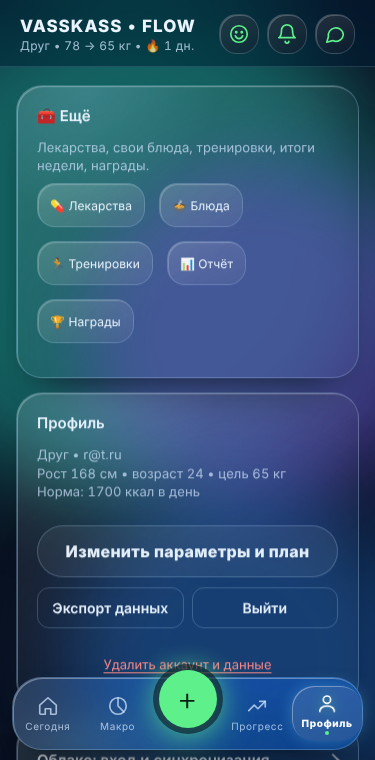
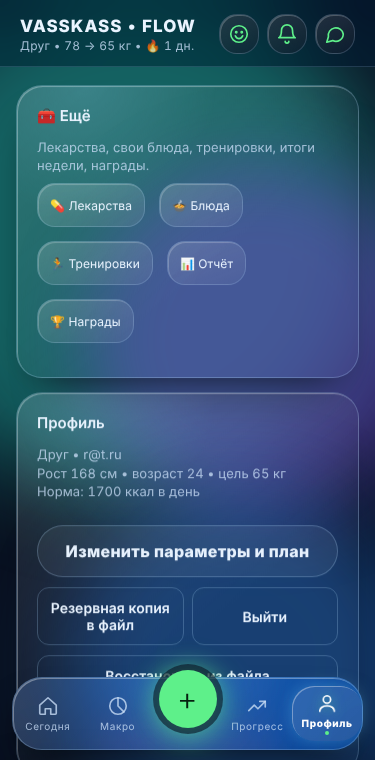
v100, v92b, v103: меню на неделю, резервная копия в файл, защита облака при смене пользователя, автотесты
- v100 меню на неделю и список покупок (72 блюда, ±10% к норме, учёт беременности).
- v92 облачная сессия привязана к почте и отключается при выходе; v92b резервная копия с фото и восстановление.
- v99: регистрация гостя на почту с облачным аккаунтом больше не падает.
- v103: поле веса принимает запятую, стартовый таймер не сбрасывает анкету.
- tests/smoke.js — 14 сценариев, все проходят; sw VERSION v103-1.

Claude-Session: https://claude.ai/code/session_01HyKBZBDxcxmrndMoK7TebW

diff --git a/js/v99-guest.js b/js/v99-guest.js
@@ -48,7 +48,7 @@
  window.guestStart=guestStart;
 
  /* ---------- облако: для гостя ничего не отправляем и не тянем ---------- */
- const noCloud=()=>{if(guest()){try{CL=null}catch(e){}return true}return false};
+ const noCloud=()=>{if(guest()&&!(typeof window.__v92auth==='function'&&window.__v92auth())){try{CL=null}catch(e){}return true}return false};
  const wrapA=name=>{try{const f=window[name];if(typeof f!=='function')return;const w=async function(){if(noCloud())return null;return f.apply(this,arguments)};window[name]=w}catch(e){}};
  ['clPush','clPull','clRefresh46','clUse','clAuth'].forEach(wrapA);
  try{const _rc=renderCloud;renderCloud=function(){if(guest()){const e=$g('#cloudBox');if(e)e.innerHTML='<p class="m">Облако работает с аккаунтом. Создайте его, и записи с этого телефона сохранятся, а открыть их можно будет на любом устройстве.</p><button class="btn" onclick="guestSave()">Создать аккаунт</button>';return}return _rc.apply(this,arguments)}}catch(e){}

diff --git a/js/v103-fixes.js b/js/v103-fixes.js
@@ -28,5 +28,10 @@ function fixForecast(){try{document.querySelectorAll('#t-weight p, #t-weight div
 document.head.insertAdjacentHTML('beforeend','<style>html[data-theme] #rg.over{stroke:var(--warn)!important}</style>');
 function ringOver(){try{const rg=$('#rg');if(rg&&U()&&U().p)rg.classList.toggle('over',eaten(day())>plan().b)}catch(e){}}
 
+/* поле веса принимает запятую в любом браузере */
+try{const w=$('#wIn');if(w&&w.type==='number'){w.type='text';w.setAttribute('inputmode','decimal')}}catch(e){}
+/* стартовый таймер не перезапускает уже начатую анкету */
+const _en=enter;enter=function(){try{if(!$('#quiz').hidden&&qi>=0)return}catch(e){}return _en.apply(this,arguments)};
+
 const _r=render;render=function(){const r=_r.apply(this,arguments);fixForecast();ringOver();return r};
 })();

diff --git a/index.html b/index.html
@@ -2635,9 +2635,11 @@ document.head.insertAdjacentHTML('beforeend','<style>.row>.btn.sm{flex:0 0 auto;
 <script src="js/v94-onboard.js"></script>
 <script src="js/v96-empty.js"></script>
 <script src="js/v97-quality.js"></script>
+<script src="js/v100-menu.js"></script>
 <script src="js/v101-fit.js"></script>
 <script src="js/v95-growth.js"></script>
 <script src="js/v92-data.js"></script>
+<script src="js/v92b-backup.js"></script>
 <script src="js/v99-guest.js"></script>
 <script src="js/v103-fixes.js"></script>
 <script src="js/v102-metrics.js"></script>

diff --git a/sw.js b/sw.js
@@ -14,7 +14,7 @@
 //   картинки, видео, шрифты — сразу из кэша, в фоне обновляются (stale-while-revalidate);
 //   supabase и прочие сторонние хосты — не трогаем вообще, никогда не кэшируем.
 
-const VERSION = 'v96-1';
+const VERSION = 'v103-1';
 const CDN_VER = '1';
 const CORE = 'flow-core-' + VERSION;
 const PAGES = 'flow-pages-' + VERSION;

diff --git a/js/v92b-backup.js b/js/v92b-backup.js
@@ -2,6 +2,7 @@
    подключать после js/v92-data.js */
 (function(){
 'use strict';
+if(window.__v92b)return;
 const FMT='vasskass-backup',VER=1,REF='idbref:',DAY=864e5;
 const bkKey=()=>'flow_bk:'+me;
 const lsGet=k=>{try{return localStorage.getItem(k)}catch(e){return null}};

diff --git a/tests/README.md b/tests/README.md
@@ -1,0 +1,21 @@
+# Smoke-тесты VASSKASS • FLOW
+
+```
+node tests/smoke.js              # весь набор, ~50 с
+node tests/smoke.js --only=анкета  # только сценарии, в имени которых есть подстрока
+node tests/smoke.js --verbose    # плюс шаги анкеты и значения формы плана
+node tests/smoke.js --headed     # с окном браузера
+```
+
+Нужен только глобально установленный `playwright` с Chromium; `npm install` не нужен.
+Скрипт сам поднимает статический сервер из корня репозитория на свободном порту.
+Supabase и внешние CDN мокаются (ответ 200, `[]` или пустое тело); service worker отключён.
+
+Код выхода 0, если всё прошло, и 1 при любом FAIL или если прогон дольше 150 с.
+Для каждого сценария печатается `PASS`, `FAIL` с причиной или `SKIP`.
+
+Сценарии: загрузка без pageerror и 404; регистрация; гостевой режим (если есть кнопка
+«Начать без регистрации»); анкета по веткам (женщина и похудение, мужчина и набор с «Пропустить»,
+беременность из вопроса о здоровье, подросток) с проверкой нумерации «Вопрос N из M» и норм калорий;
+еда (форма, quickAdd/#qa90, удаление); вода; вес с запятой; XSS в названии еды; перезагрузка,
+выход и вход; вкладки и горизонтальная прокрутка на 320 и 375 px; все оформления `MODES_ALL`.
